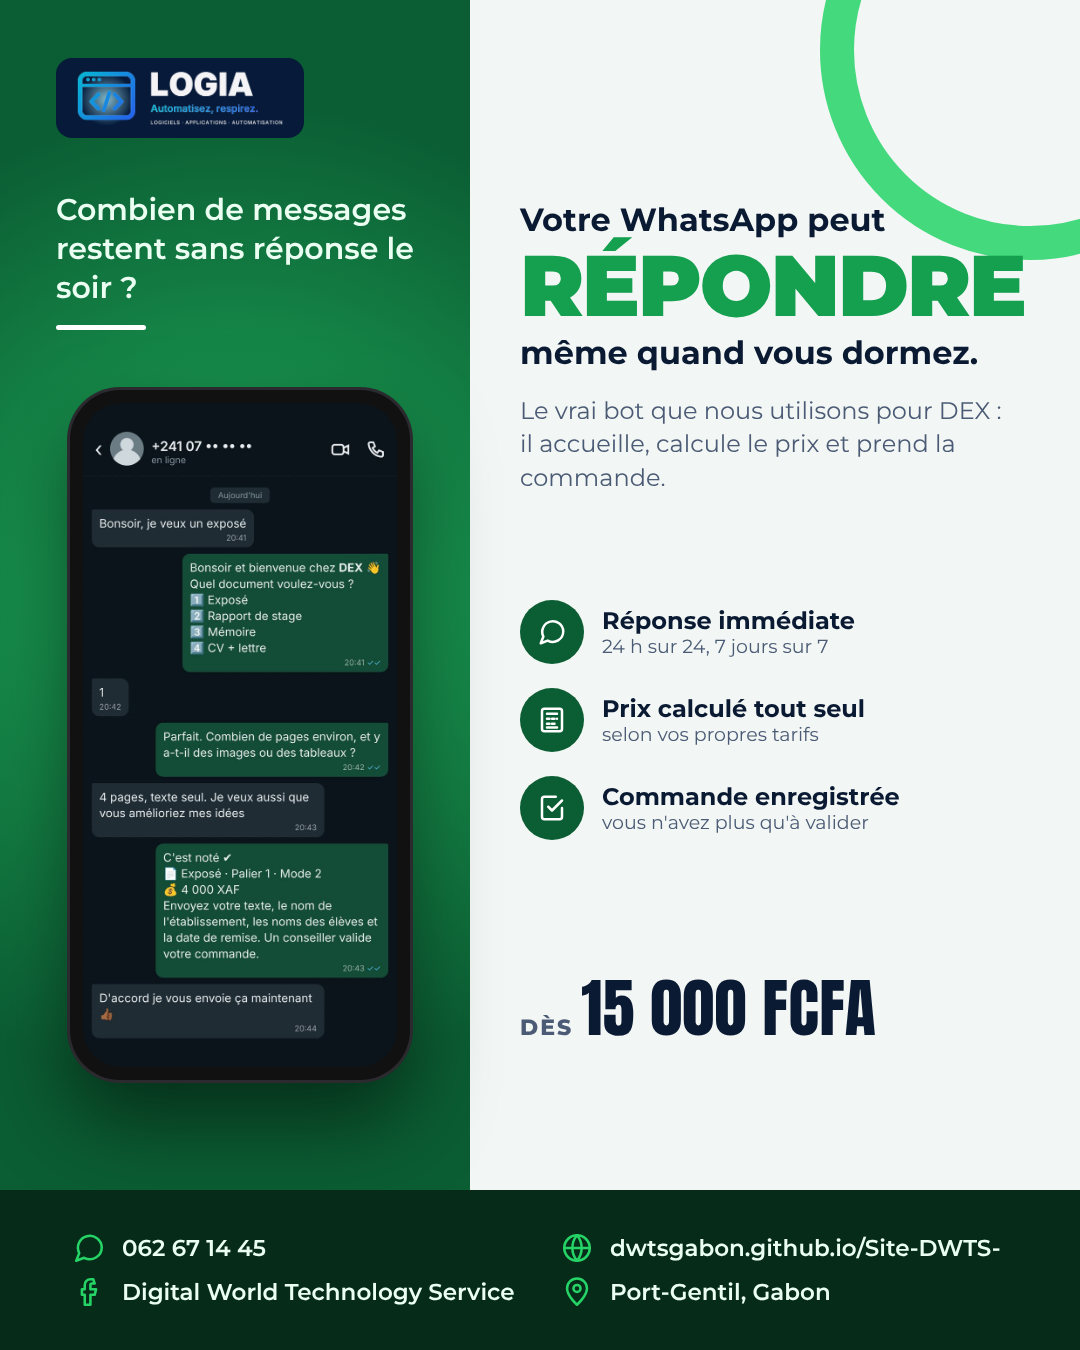
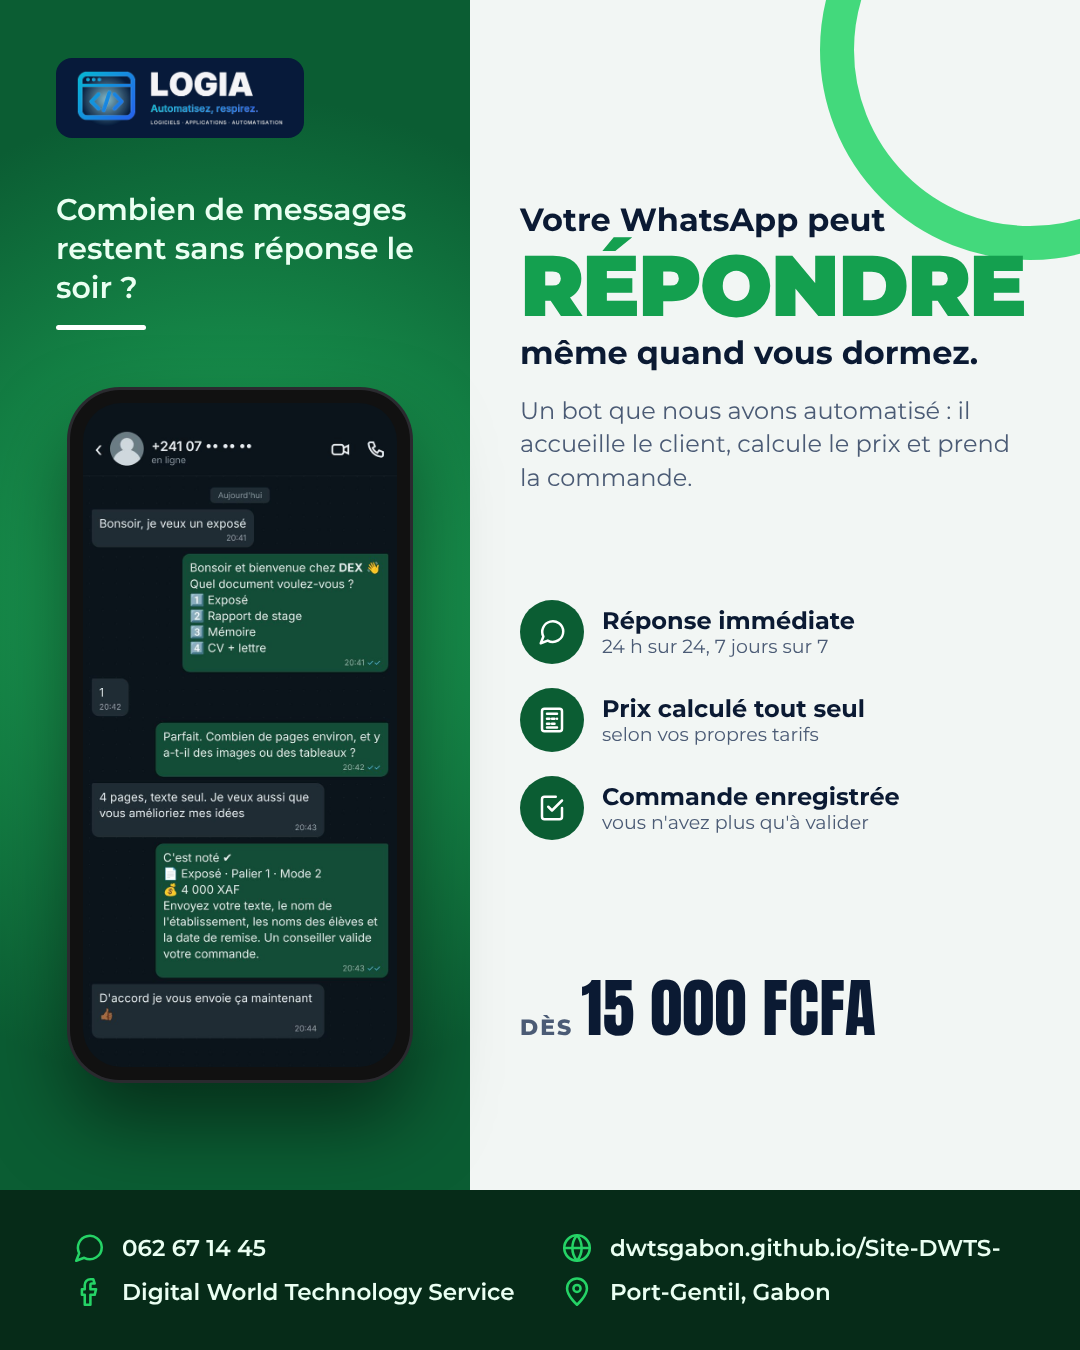
Logia : « un bot que nous avons automatisé » au lieu du « bot de DEX »
Affiches pro-logia-bot (rendu refait) et post-logia-3 corrigées ; règle
ajoutée au README marketing pour les prochaines publications.

Claude-Session: https://claude.ai/code/session_01KbGiktRWXap9n5rdpaZ3jT

Changed region(s): [[0.4889, 0.28, 0.9167, 0.3733]]

diff --git a/marketing/modeles/pro-logia-bot.html b/marketing/modeles/pro-logia-bot.html
@@ -30,7 +30,7 @@ body{background:#f2f6f4;color:#0b1a33}
 <p class="q">Combien de messages restent sans réponse le soir ?</p>
 <div class="tel"><img src="/assets/img/logia/bot.jpg"></div>
 <div class="droite"><p class="a">Votre WhatsApp peut</p><h2>RÉPONDRE</h2><p class="b">même quand vous dormez.</p>
-<p class="c">Le vrai bot que nous utilisons pour DEX : il accueille, calcule le prix et prend la commande.</p></div>
+<p class="c">Un bot que nous avons automatisé : il accueille le client, calcule le prix et prend la commande.</p></div>
 <div class="ben">
  <div><i><svg viewBox="0 0 24 24" fill="none" stroke="currentColor" stroke-width="2" stroke-linecap="round" stroke-linejoin="round"><path d="M21 11.5a8.4 8.4 0 0 1-12.4 7.4L3 21l2.1-5.4A8.4 8.4 0 1 1 21 11.5z"/></svg></i><p><b>Réponse immédiate</b><span>24 h sur 24, 7 jours sur 7</span></p></div>
  <div><i><svg viewBox="0 0 24 24" fill="none" stroke="currentColor" stroke-width="2" stroke-linecap="round" stroke-linejoin="round"><rect x="4" y="3" width="16" height="18" rx="2"/><path d="M8 7h8M8 11h2M12 11h2M16 11h0M8 15h2M12 15h2M8 18h8"/></svg></i><p><b>Prix calculé tout seul</b><span>selon vos propres tarifs</span></p></div>

diff --git a/marketing/modeles/post-logia-3.html b/marketing/modeles/post-logia-3.html
@@ -1,6 +1,6 @@
 <!doctype html>
 <html><head><meta charset="utf-8">
-<!-- Logia bot WhatsApp. Vraie conversation du bot DEX. -->
+<!-- Logia bot WhatsApp. Capture réelle d'un bot réalisé par Logia. -->
 <link rel="stylesheet" href="marketing/modeles/_commun-concurrence.css">
 <style>
 body{background:radial-gradient(800px 700px at 85% 45%,rgba(37,211,102,.22),transparent 60%),radial-gradient(700px 600px at 0% 0%,rgba(34,211,238,.25),transparent 60%),linear-gradient(165deg,#071a2b,#05080f 70%)}
@@ -22,7 +22,7 @@ h1 span{background:linear-gradient(110deg,#22D3EE,#25D366);-webkit-background-cl
  <div><i>📋</i>Prend la commande</div>
  <div><i>⏰</i>Disponible 24 h/24</div>
 </div>
-<p class="heure">Ici, le <b>vrai bot de DEX</b> : le client choisit, le bot donne le prix, un conseiller valide.</p>
+<p class="heure">Un <b>bot que nous avons automatisé</b> : le client choisit, le bot donne le prix, un conseiller valide.</p>
 <div class="tel"><img src="assets/img/logia/bot.jpg"></div>
 <div class="badges"><span class="price">Bot WhatsApp dès 15 000 XAF</span><span>💳 Payé une seule fois</span></div>
 <div class="cta"><b>Commander sur WhatsApp</b><span>062 67 14 45</span></div>

diff --git a/marketing/README.md b/marketing/README.md
@@ -8,6 +8,7 @@ Ce dossier contient les outils qui fabriquent les publications de DWTS (affiches
 - Reels = tutoriels courts utiles (Word, page de garde, CV, IA pour étudiants), puis appel à l'action.
 - **Un seul bouton partout : « Commander sur WhatsApp »** (affiches, fin des reels, légendes : `📲 Commander sur WhatsApp : wa.me/24162671445`).
 - **Toujours un prix visible** (vrais prix de `tarifs.html`) : CV dès 1 500 XAF, exposé dès 2 500 XAF, affiche dès 2 500 XAF, logo dès 6 500 XAF.
+- **Réalisations Logia** : ne pas dire qu'un outil est « le bot de DEX » ou « celui que nous utilisons pour DEX » (décision d'Elie). Dire « un bot que nous avons automatisé », « une de nos réalisations ».
 - **Preuve honnête** : « ✅ Aperçu avant paiement » (vrai pour DEX et Visuo). Jamais de faux avis, fausse urgence ou fausse rareté ; ajouter les vrais avis clients quand il y en aura.
 - Méthode de référence : skill `campagne-pub-ia` (test des 3 secondes, un seul message, bénéfice avant caractéristique).
 - Pas de publicité pour le bot de trading Sentinel-Grid.
@@ -68,7 +69,7 @@ Images encore jamais publiées : DEX `cv.jpg`, `lettre.jpg`, `expose-anglais.jpg
 | 30/10 | Visuo | mur d'affiches | culte traversée, veillée, salon adoration, conférence art, Afro Vibes |
 | 31/10 | Logia | prix géant + fondateur | photo Elie, capture gestion |
 | 03/11 | Visuo | formes + téléphone | Saveurs du Cap (logo + affiche restaurant) |
-| 05/11 | Logia | question + mot géant | conversation bot DEX |
+| 05/11 | Logia | question + mot géant | capture d'un bot réalisé par Logia |
 | 07/11 | Logia | écran + 3 cartes | capture pointage |
 
 ## Légendes (description sous l'affiche)
